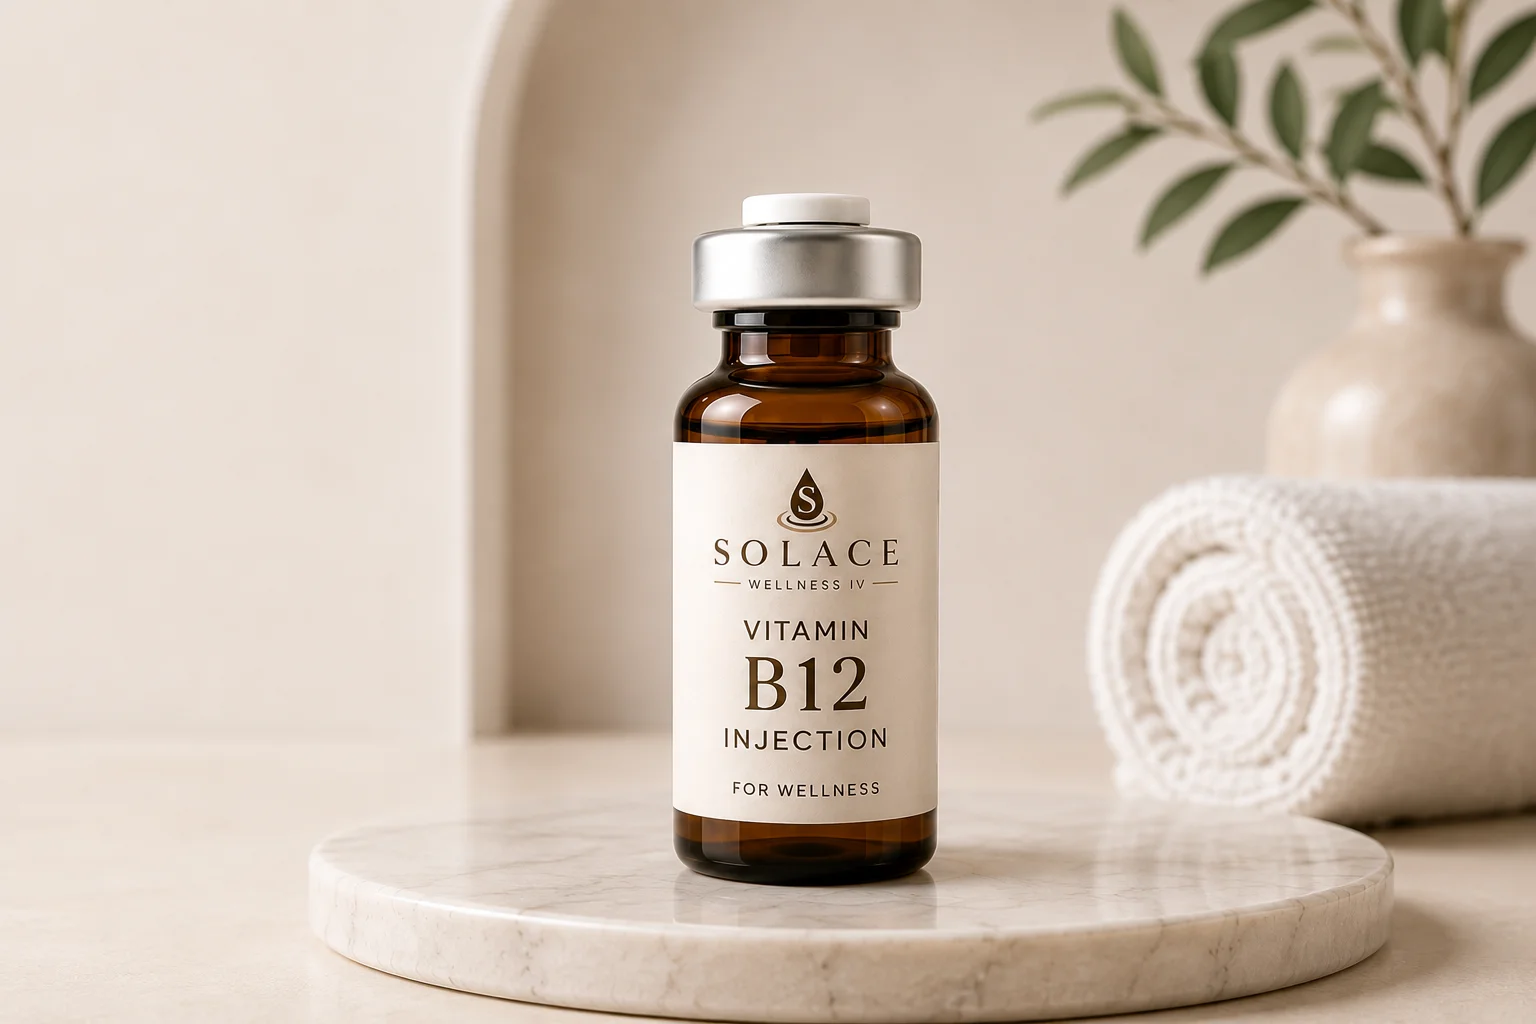
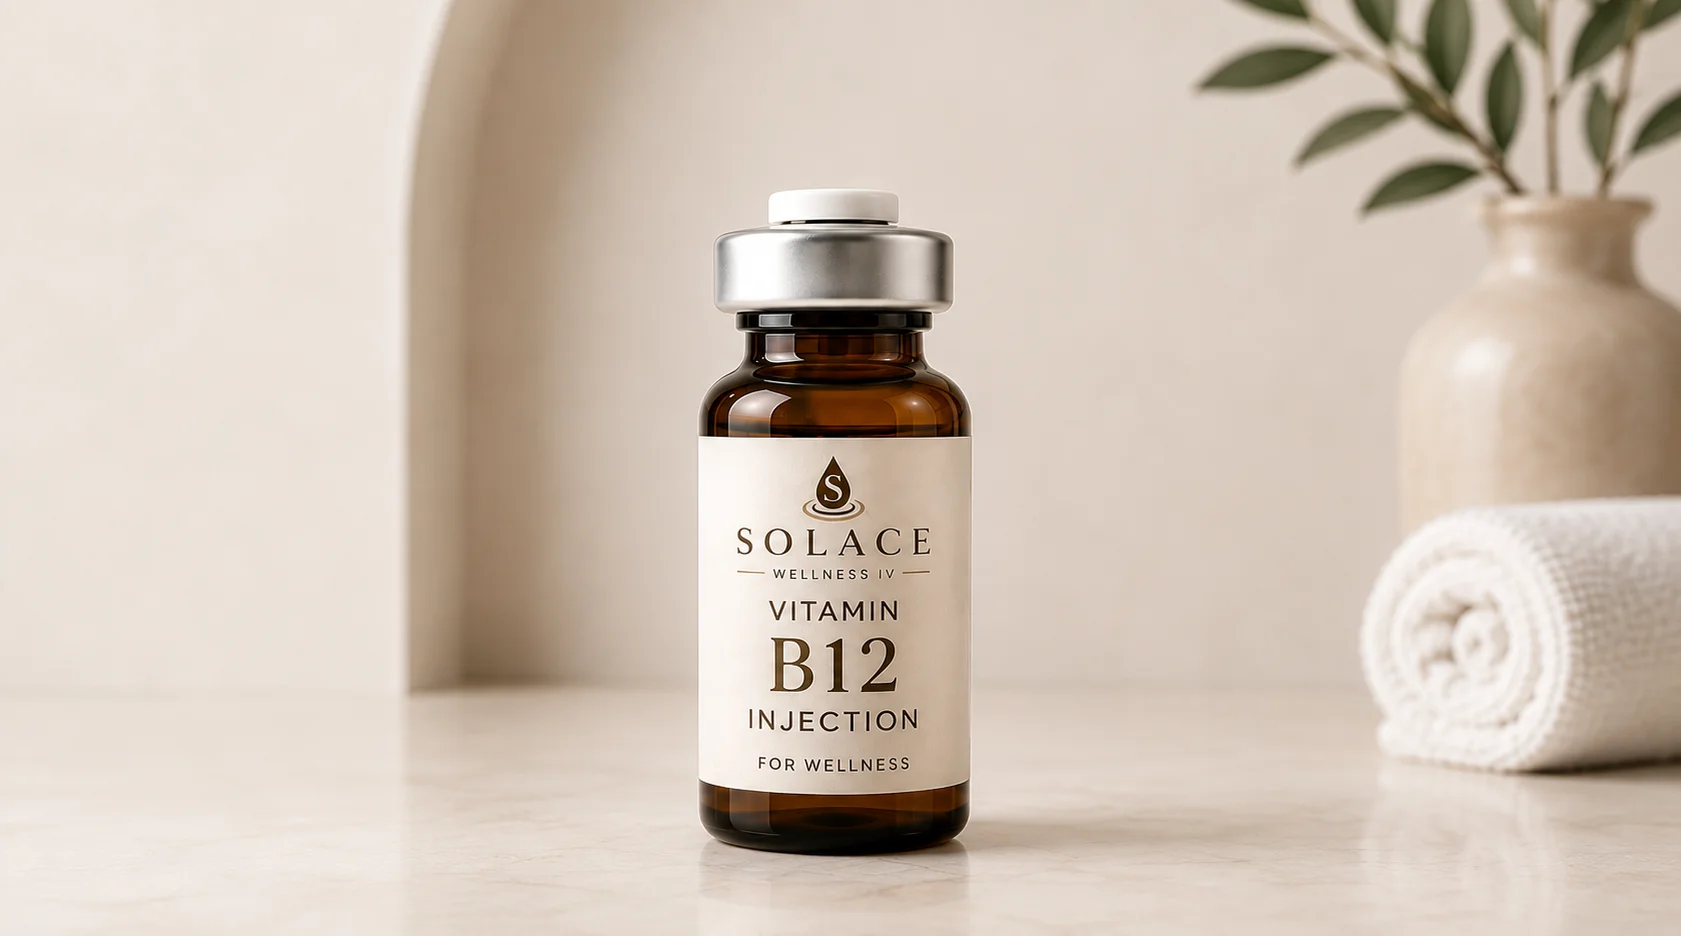
Update Vitamin B12 Injection photo with a well-margined shot, reset to default centered crop

diff --git a/Solace Wellness IV.dc.html b/Solace Wellness IV.dc.html
@@ -1615,8 +1615,7 @@
             </div>
           </a>
           <a class="sm-treat-card" href="/vitamin-b12-injection">
-            <div class="sm-treat-photo" data-bg="./solace/assets/sw-vitaminb12-injection.webp"
-              style="background-position:center bottom;" role="img"
+            <div class="sm-treat-photo" data-bg="./solace/assets/sw-vitaminb12-injection.webp" role="img"
               aria-label="Vitamin B12 injection treatment"></div>
             <div class="sm-treat-body">
               <div class="sm-treat-price">$40</div>
@@ -2180,7 +2179,7 @@ class Component extends DCLogic {
     // directly and are no longer "empty" - keeping a stale entry for them
     // shifted every hash below down by one slot onto the wrong card.
     const tHashes = ['69dee31f18bf38c1','sw-nad-combo',
-      'sw-nad-combo','sw-glutathione-booster',['sw-vitaminb12-injection','center bottom'],'sw-vitamind3-booster'];
+      'sw-nad-combo','sw-glutathione-booster','sw-vitaminb12-injection','sw-vitamind3-booster'];
     const empties = Array.from(root.querySelectorAll('div')).filter(d =>
       near(d.offsetWidth, 368, 8) && d.offsetHeight >= 235 && d.offsetHeight <= 255 &&
       getComputedStyle(d).backgroundImage === 'none' && d.children.length === 0);
